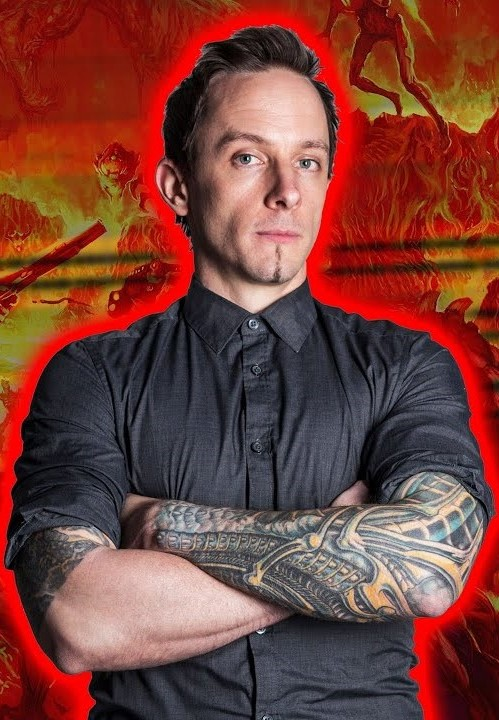
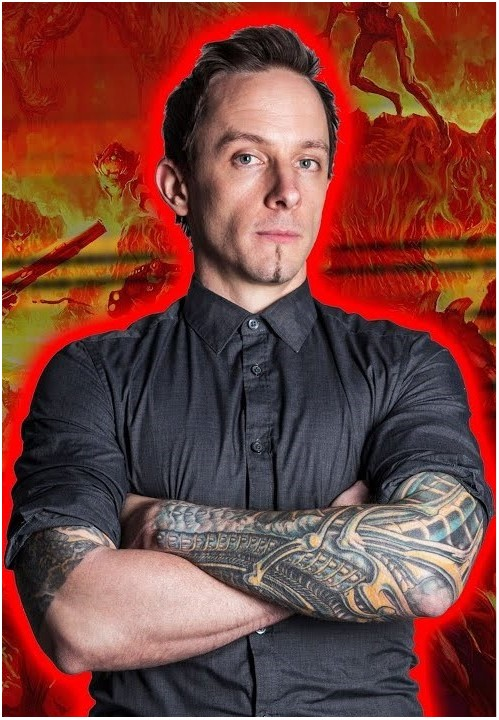
prof_pic changed

Changed region(s): [[0.0, 0.0, 1.0, 1.0], [0.6613, 0.0, 0.7214, 0.0306]]

diff --git a/Biográfia/Bio.html b/Biográfia/Bio.html
@@ -22,7 +22,7 @@
                             Sok évig dolgozott a játékiparban, azonban az első sikert a Killer Instict hanganyagán végzett munkája hozta el számára. 
                             A 2016-os Doom-hoz komponált zenei anyaga, amelyből egyedisége miatt kialakult a djent metal alfajaként elhíresült argent (ardjent) metal bővítette rajongói táborát. 
                     </p>
-                    <p>     <img src="profile_pic.jpg" width="400px" height="auto" style="border: 2px white solid; float: right;">
+                    <p>     <img src="profile_pic.jpg"  width="400px" height="auto" style="padding: 20px ; float: right;">
                             Azóta többek között a Wolfenstein és a Doom szériák folytatásaihoz szerzett aláfestő zenét.
                             Ez utóbbi miatt sikerült több neves díjat is bezsebelnie, csak hogy párat említsünk, elnyerte a DICE díjat kiemelkedő teljesítményéért az egyedi zene komponálásban és a Game Awards legjobb zene/hangkeverés díját.
                     </p>        
